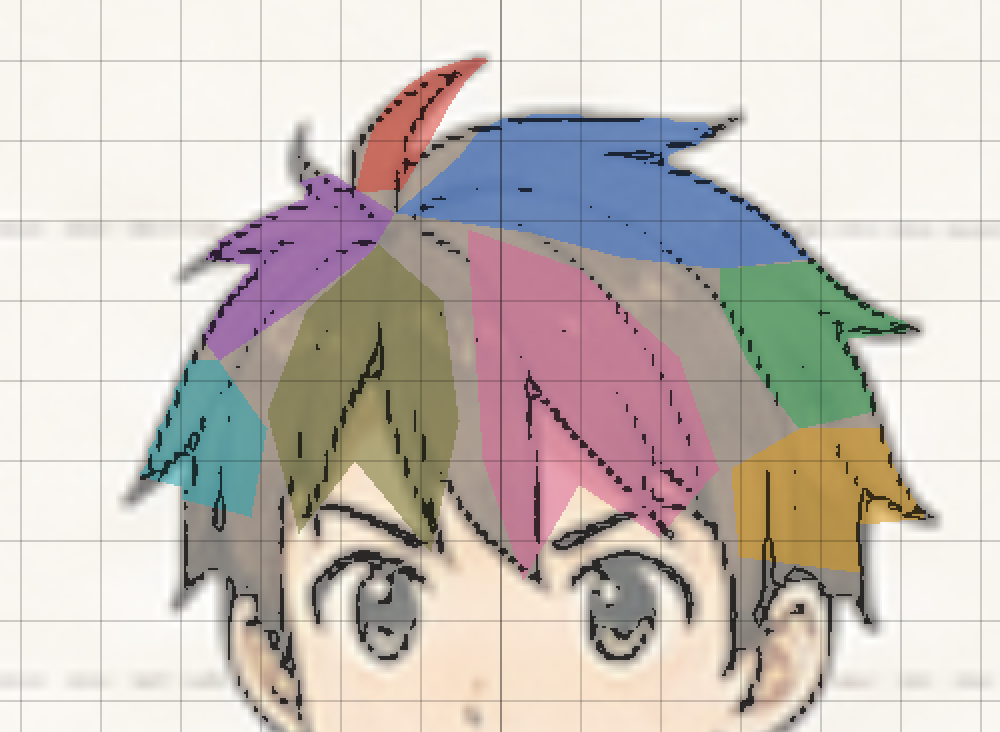
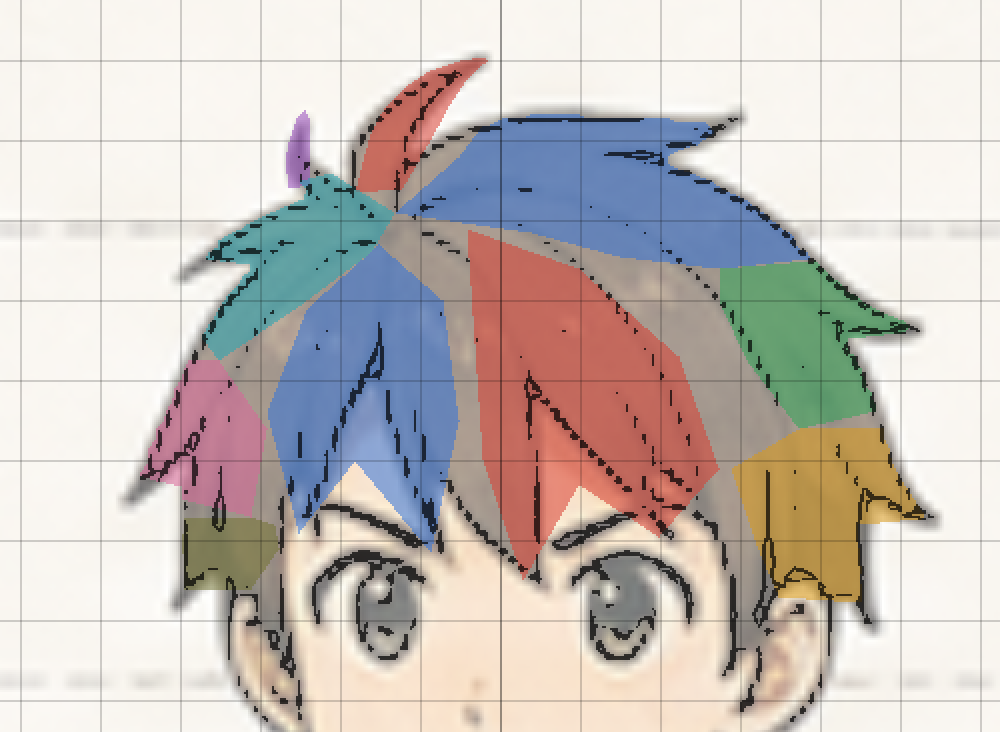
主要毛束を10本へ(-xの跳ねとこめかみを追加)
8本を1本ずつ10mm方眼で見直した。分け目の左に立つ細い跳ね1本と、
-x側のこめかみへ降りる毛束が、シルエットに出るのにどの毛束にも
入っていなかった。+xのこめかみは設定画では耳の外を通って
z844まで落ちているので下端を延ばした。

左右で本数が違う分解は作画の非対称ではなく読み落としを疑う、
という教訓を modeling-pitfalls に追加。

Claude-Session: https://claude.ai/code/session_01PERsWFHQ12GzWFytKu9QWp

Changed region(s): [[0.124, 0.1503, 0.868, 0.8415]]

diff --git a/plan/models/modeling-pitfalls.md b/plan/models/modeling-pitfalls.md
@@ -566,3 +566,12 @@ glTF書き出しが自動生成する `neutral_bone`。`fix_orphan_weights` を
 
 **対処**: 着手前に必ず測り直す。順番も測り直してから決める
 (この回は、書いていなかった「脚」が一番大きかった)。
+
+## 3-13 左右で本数が違う分解は読み落としを疑う
+
+主要毛束を+x側4本・-x側3本と読んだ。分け目があるので左右の形が違うのは
+当然だが、**部位の対応は付く**。+xに「こめかみへ降りる毛束」があって-xに
+無いのは作画の非対称ではなく、こちらの読み落としだった。
+
+分解したら左右の本数と部位名を突き合わせる。片側にしかない部位があったら、
+その位置を拡大して確認する。
